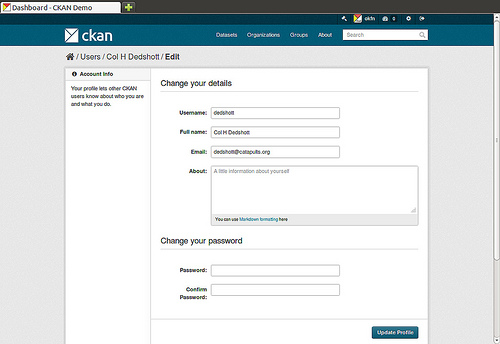
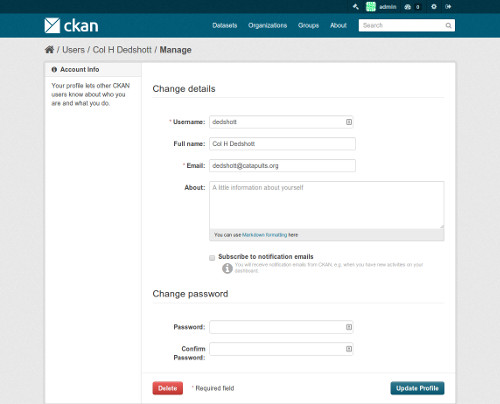
[#1602] Fix sysadmin guide adding that the users can be deleted since 2.2
The feature was added in 7c60ba4.

diff --git a/doc/sysadmin-guide.rst b/doc/sysadmin-guide.rst
@@ -140,12 +140,12 @@ This is useful if, for example, a user has forgotten their user ID. For
 non-sysadmin users, the search on this page will only match public parts of the
 profile, so they cannot search by e-mail address.
 
-On their user profile, you will see an "Edit" button. CKAN displays the user
-settings page. You can change any settings for the user, including their
-username, name and password.
+On their user profile, you will see a "Edit" button. CKAN displays the user
+settings page. You can delete the user or change any of its settings, including
+their username, name and password.
 
 .. image:: /images/manage_users.jpg
 
-.. note::
-
-    At present, it is not possible to delete users.
+.. versionadded:: 2.2
+   Previous versions of CKAN didn't allow you to delete users through the
+   web interface.
